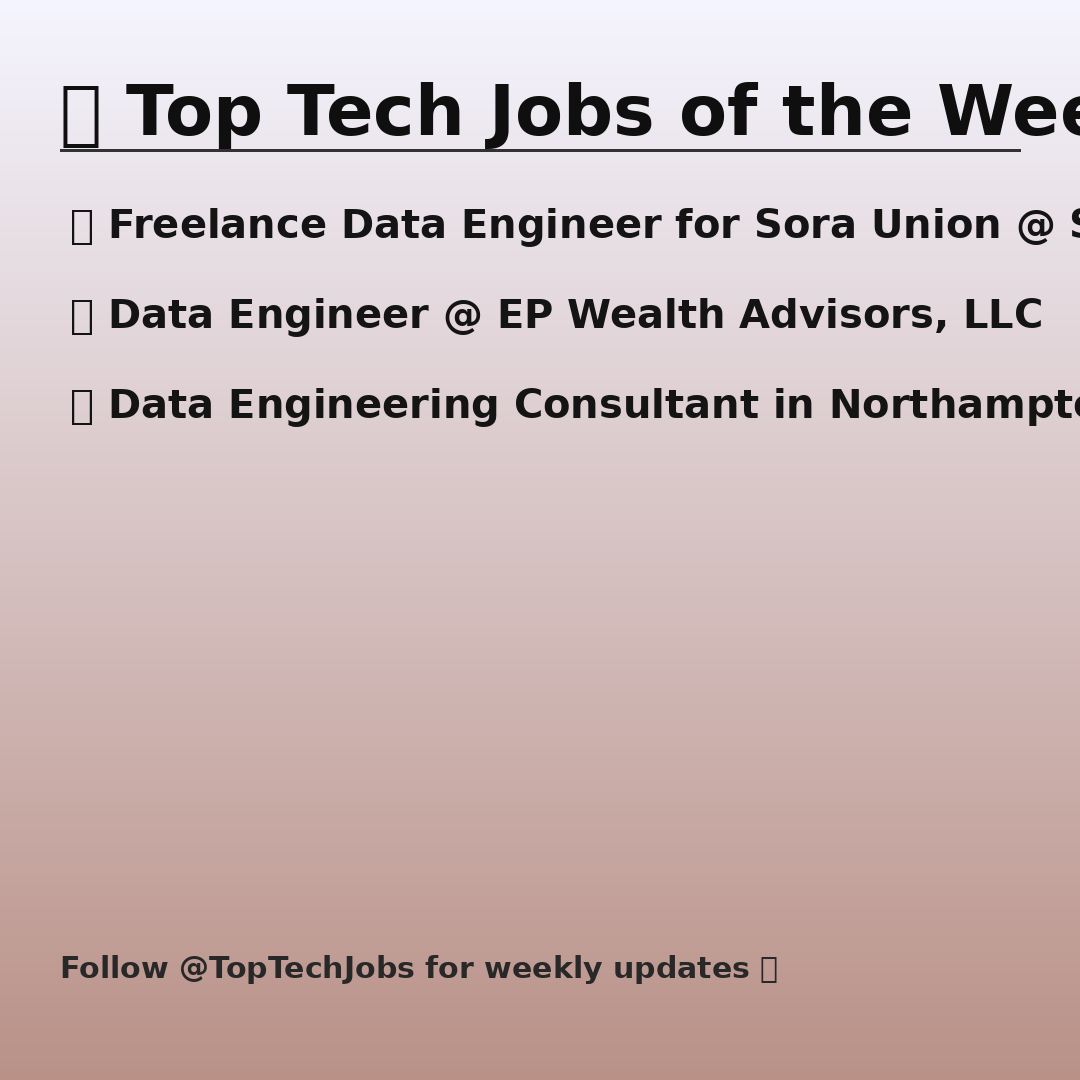
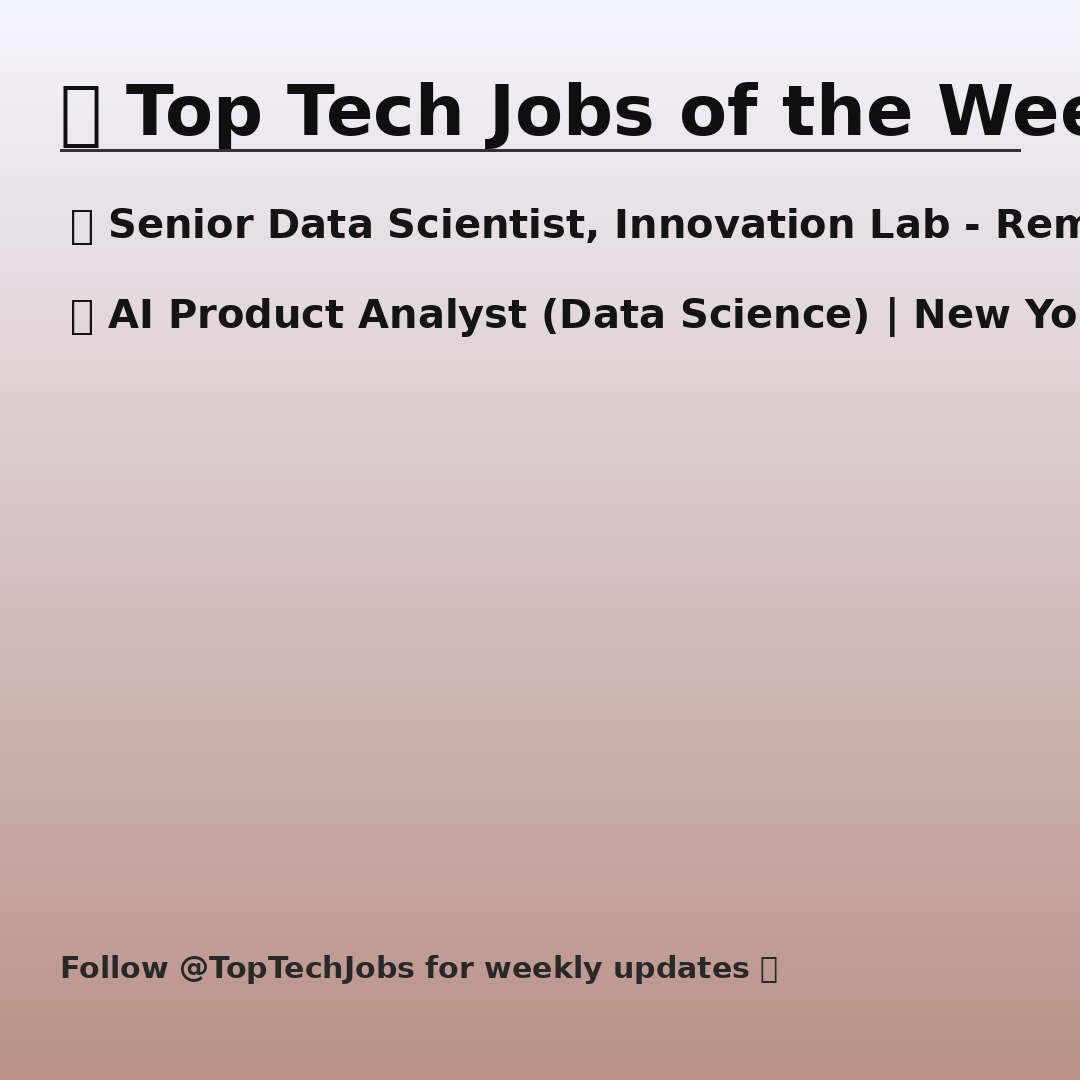
timer added-v2

Changed region(s): [[0.0917, 0.1833, 1.0, 0.2444], [0.0611, 0.3361, 1.0, 0.3972], [0.0917, 0.275, 1.0, 0.3056]]

diff --git a/index.html b/index.html
@@ -164,7 +164,7 @@
                     const counterElement = document.querySelector('.visitor-count');
                     const visitsElement = document.getElementById('visits');
                     
-                    // Method 1: Try CountAPI.xyz with correct namespace
+                    // Method 1: Try CountAPI.xyz
                     try {
                         console.log('Attempting CountAPI.xyz...');
                         const response = await fetch('https://api.countapi.xyz/hit/jobloop-beta-github-io/visits', {
@@ -187,7 +187,7 @@
                         console.log('CountAPI.xyz failed:', error);
                     }
                     
-                    // Method 2: Try alternative API - CounterAPI.dev
+                    // Method 2: Try alternative API
                     try {
                         console.log('Attempting alternative counter...');
                         const response = await fetch('https://api.counterapi.dev/v1/jobloop-beta-github-io/visits/up', {
@@ -209,7 +209,7 @@
                         console.log('Alternative API failed:', error);
                     }
                     
-                    // Method 3: Fallback to localStorage simulation (browser-only, not global)
+                    // Method 3: Fallback to localStorage simulation
                     try {
                         console.log('Using localStorage fallback...');
                         let count = parseInt(localStorage.getItem('visit_count') || '0');
@@ -251,169 +251,184 @@
                 <p>Advertisement Space</p>
             </div>
             <div class="job-grid">
-            <article class="job-card" id="job-0"
-                data-title="Freelance Data Engineer for Sora Union"
-                data-company="Sora Union"
-                data-location="None"
-                data-url="https://builtinlondon.uk/job/freelance-data-engineer-sora-union/7493402?utm_campaign=google_jobs_apply&utm_source=google_jobs_apply&utm_medium=organic">
-                <a href="https://builtinlondon.uk/job/freelance-data-engineer-sora-union/7493402?utm_campaign=google_jobs_apply&utm_source=google_jobs_apply&utm_medium=organic" class="job-title" target="_blank">Freelance Data Engineer for Sora Union</a>
-                <div class="job-company">Sora Union</div>
+            <article class="job-card" id="job-{i}"
+                data-title="{j['title']}"
+                data-company="{j['company']}"
+                data-location="{j['loc']}"
+                data-url="{j['url']}">
+                <a href="{j['url']}" class="job-title" target="_blank">{j['title']}</a>
+                <div class="job-company">{j['company']}</div>
                 <div class="job-location">
                     <svg width="16" height="16" viewBox="0 0 24 24" fill="none" stroke="currentColor" stroke-width="2">
                         <path d="M21 10c0 7-9 13-9 13s-9-6-9-13a9 9 0 0 1 18 0z"></path>
                         <circle cx="12" cy="10" r="3"></circle>
                     </svg>
-                    Location Flexible
+                    {j['loc'] if j['loc'] else 'Location Flexible'}
                 </div>
             </article>
-            <article class="job-card" id="job-1"
-                data-title="Data Engineer"
-                data-company="EP Wealth Advisors, LLC"
-                data-location="London"
-                data-url="https://jobiak.epwealth.com/careers/data-engineer-london-oh-690345e0c07db10a50c9dc56?utm_campaign=google_jobs_apply&utm_source=google_jobs_apply&utm_medium=organic">
-                <a href="https://jobiak.epwealth.com/careers/data-engineer-london-oh-690345e0c07db10a50c9dc56?utm_campaign=google_jobs_apply&utm_source=google_jobs_apply&utm_medium=organic" class="job-title" target="_blank">Data Engineer</a>
-                <div class="job-company">EP Wealth Advisors, LLC</div>
+            <article class="job-card" id="job-{i}"
+                data-title="{j['title']}"
+                data-company="{j['company']}"
+                data-location="{j['loc']}"
+                data-url="{j['url']}">
+                <a href="{j['url']}" class="job-title" target="_blank">{j['title']}</a>
+                <div class="job-company">{j['company']}</div>
                 <div class="job-location">
                     <svg width="16" height="16" viewBox="0 0 24 24" fill="none" stroke="currentColor" stroke-width="2">
                         <path d="M21 10c0 7-9 13-9 13s-9-6-9-13a9 9 0 0 1 18 0z"></path>
                         <circle cx="12" cy="10" r="3"></circle>
                     </svg>
-                    London
+                    {j['loc'] if j['loc'] else 'Location Flexible'}
                 </div>
             </article>
-            <article class="job-card" id="job-2"
-                data-title="Data Engineering Consultant in Northampton"
-                data-company="Energy Jobline ZR"
-                data-location="Northampton"
-                data-url="https://www.ihireengineering.com/jobs/view/498473498?utm_campaign=google_jobs_apply&utm_source=google_jobs_apply&utm_medium=organic">
-                <a href="https://www.ihireengineering.com/jobs/view/498473498?utm_campaign=google_jobs_apply&utm_source=google_jobs_apply&utm_medium=organic" class="job-title" target="_blank">Data Engineering Consultant in Northampton</a>
-                <div class="job-company">Energy Jobline ZR</div>
+            <article class="job-card" id="job-{i}"
+                data-title="{j['title']}"
+                data-company="{j['company']}"
+                data-location="{j['loc']}"
+                data-url="{j['url']}">
+                <a href="{j['url']}" class="job-title" target="_blank">{j['title']}</a>
+                <div class="job-company">{j['company']}</div>
                 <div class="job-location">
                     <svg width="16" height="16" viewBox="0 0 24 24" fill="none" stroke="currentColor" stroke-width="2">
                         <path d="M21 10c0 7-9 13-9 13s-9-6-9-13a9 9 0 0 1 18 0z"></path>
                         <circle cx="12" cy="10" r="3"></circle>
                     </svg>
-                    Northampton
+                    {j['loc'] if j['loc'] else 'Location Flexible'}
                 </div>
             </article>
-            <article class="job-card" id="job-3"
-                data-title="15h Left! Senior Data Engineer( DWH)"
-                data-company="Mastercard"
-                data-location="Pune"
-                data-url="https://in.talent.com/view?id=9238cf80d12a&utm_campaign=google_jobs_apply&utm_source=google_jobs_apply&utm_medium=organic">
-                <a href="https://in.talent.com/view?id=9238cf80d12a&utm_campaign=google_jobs_apply&utm_source=google_jobs_apply&utm_medium=organic" class="job-title" target="_blank">15h Left! Senior Data Engineer( DWH)</a>
-                <div class="job-company">Mastercard</div>
+            <article class="job-card" id="job-{i}"
+                data-title="{j['title']}"
+                data-company="{j['company']}"
+                data-location="{j['loc']}"
+                data-url="{j['url']}">
+                <a href="{j['url']}" class="job-title" target="_blank">{j['title']}</a>
+                <div class="job-company">{j['company']}</div>
                 <div class="job-location">
                     <svg width="16" height="16" viewBox="0 0 24 24" fill="none" stroke="currentColor" stroke-width="2">
                         <path d="M21 10c0 7-9 13-9 13s-9-6-9-13a9 9 0 0 1 18 0z"></path>
                         <circle cx="12" cy="10" r="3"></circle>
                     </svg>
-                    Pune
+                    {j['loc'] if j['loc'] else 'Location Flexible'}
                 </div>
             </article>
-            <article class="job-card" id="job-4"
-                data-title="Azure Data Engineer(Databricks, Datafactory) Immediate joiners"
-                data-company="Tata Consultancy Services"
-                data-location="Pune"
-                data-url="https://in.linkedin.com/jobs/view/azure-data-engineer-databricks-datafactory-immediate-joiners-at-tata-consultancy-services-4319969713?utm_campaign=google_jobs_apply&utm_source=google_jobs_apply&utm_medium=organic">
-                <a href="https://in.linkedin.com/jobs/view/azure-data-engineer-databricks-datafactory-immediate-joiners-at-tata-consultancy-services-4319969713?utm_campaign=google_jobs_apply&utm_source=google_jobs_apply&utm_medium=organic" class="job-title" target="_blank">Azure Data Engineer(Databricks, Datafactory) Immediate joiners</a>
-                <div class="job-company">Tata Consultancy Services</div>
+            <article class="job-card" id="job-{i}"
+                data-title="{j['title']}"
+                data-company="{j['company']}"
+                data-location="{j['loc']}"
+                data-url="{j['url']}">
+                <a href="{j['url']}" class="job-title" target="_blank">{j['title']}</a>
+                <div class="job-company">{j['company']}</div>
                 <div class="job-location">
                     <svg width="16" height="16" viewBox="0 0 24 24" fill="none" stroke="currentColor" stroke-width="2">
                         <path d="M21 10c0 7-9 13-9 13s-9-6-9-13a9 9 0 0 1 18 0z"></path>
                         <circle cx="12" cy="10" r="3"></circle>
                     </svg>
-                    Pune
+                    {j['loc'] if j['loc'] else 'Location Flexible'}
                 </div>
             </article>
-            <article class="job-card" id="job-5"
-                data-title="Senior Data Engineer - (On Premises - Hadoop, Spark, Python, SQL)"
-                data-company="Mastercard"
-                data-location="Pune"
-                data-url="https://careers.mastercard.com/us/en/job/R-263702/Senior-Data-Engineer-On-Premises-Hadoop-Spark-Python-SQL?utm_campaign=google_jobs_apply&utm_source=google_jobs_apply&utm_medium=organic">
-                <a href="https://careers.mastercard.com/us/en/job/R-263702/Senior-Data-Engineer-On-Premises-Hadoop-Spark-Python-SQL?utm_campaign=google_jobs_apply&utm_source=google_jobs_apply&utm_medium=organic" class="job-title" target="_blank">Senior Data Engineer - (On Premises - Hadoop, Spark, Python, SQL)</a>
-                <div class="job-company">Mastercard</div>
+            <article class="job-card" id="job-{i}"
+                data-title="{j['title']}"
+                data-company="{j['company']}"
+                data-location="{j['loc']}"
+                data-url="{j['url']}">
+                <a href="{j['url']}" class="job-title" target="_blank">{j['title']}</a>
+                <div class="job-company">{j['company']}</div>
                 <div class="job-location">
                     <svg width="16" height="16" viewBox="0 0 24 24" fill="none" stroke="currentColor" stroke-width="2">
                         <path d="M21 10c0 7-9 13-9 13s-9-6-9-13a9 9 0 0 1 18 0z"></path>
                         <circle cx="12" cy="10" r="3"></circle>
                     </svg>
-                    Pune
+                    {j['loc'] if j['loc'] else 'Location Flexible'}
                 </div>
             </article>
-            <article class="job-card" id="job-6"
-                data-title="Data Engineer- Databricks"
-                data-company="InfoCepts"
-                data-location="Pune"
-                data-url="https://in.linkedin.com/jobs/view/data-engineer-databricks-at-infocepts-4332846441?utm_campaign=google_jobs_apply&utm_source=google_jobs_apply&utm_medium=organic">
-                <a href="https://in.linkedin.com/jobs/view/data-engineer-databricks-at-infocepts-4332846441?utm_campaign=google_jobs_apply&utm_source=google_jobs_apply&utm_medium=organic" class="job-title" target="_blank">Data Engineer- Databricks</a>
-                <div class="job-company">InfoCepts</div>
+            <article class="job-card" id="job-{i}"
+                data-title="{j['title']}"
+                data-company="{j['company']}"
+                data-location="{j['loc']}"
+                data-url="{j['url']}">
+                <a href="{j['url']}" class="job-title" target="_blank">{j['title']}</a>
+                <div class="job-company">{j['company']}</div>
                 <div class="job-location">
                     <svg width="16" height="16" viewBox="0 0 24 24" fill="none" stroke="currentColor" stroke-width="2">
                         <path d="M21 10c0 7-9 13-9 13s-9-6-9-13a9 9 0 0 1 18 0z"></path>
                         <circle cx="12" cy="10" r="3"></circle>
                     </svg>
-                    Pune
+                    {j['loc'] if j['loc'] else 'Location Flexible'}
                 </div>
             </article>
-            <article class="job-card" id="job-7"
-                data-title="Senior Azure data engineer- immediate joiner [31 / 10 / 2025]"
-                data-company="Tata Consultancy Services"
-                data-location="Pune"
-                data-url="https://in.talent.com/view?id=483210314851&utm_campaign=google_jobs_apply&utm_source=google_jobs_apply&utm_medium=organic">
-                <a href="https://in.talent.com/view?id=483210314851&utm_campaign=google_jobs_apply&utm_source=google_jobs_apply&utm_medium=organic" class="job-title" target="_blank">Senior Azure data engineer- immediate joiner [31 / 10 / 2025]</a>
-                <div class="job-company">Tata Consultancy Services</div>
+            <article class="job-card" id="job-{i}"
+                data-title="{j['title']}"
+                data-company="{j['company']}"
+                data-location="{j['loc']}"
+                data-url="{j['url']}">
+                <a href="{j['url']}" class="job-title" target="_blank">{j['title']}</a>
+                <div class="job-company">{j['company']}</div>
                 <div class="job-location">
                     <svg width="16" height="16" viewBox="0 0 24 24" fill="none" stroke="currentColor" stroke-width="2">
                         <path d="M21 10c0 7-9 13-9 13s-9-6-9-13a9 9 0 0 1 18 0z"></path>
                         <circle cx="12" cy="10" r="3"></circle>
                     </svg>
-                    Pune
+                    {j['loc'] if j['loc'] else 'Location Flexible'}
                 </div>
             </article>
-            <article class="job-card" id="job-8"
-                data-title="Senior Data Engineer- Databricks"
-                data-company="InfoCepts"
-                data-location="Pune"
-                data-url="https://in.linkedin.com/jobs/view/senior-data-engineer-databricks-at-infocepts-4332806967?utm_campaign=google_jobs_apply&utm_source=google_jobs_apply&utm_medium=organic">
-                <a href="https://in.linkedin.com/jobs/view/senior-data-engineer-databricks-at-infocepts-4332806967?utm_campaign=google_jobs_apply&utm_source=google_jobs_apply&utm_medium=organic" class="job-title" target="_blank">Senior Data Engineer- Databricks</a>
-                <div class="job-company">InfoCepts</div>
+            <article class="job-card" id="job-{i}"
+                data-title="{j['title']}"
+                data-company="{j['company']}"
+                data-location="{j['loc']}"
+                data-url="{j['url']}">
+                <a href="{j['url']}" class="job-title" target="_blank">{j['title']}</a>
+                <div class="job-company">{j['company']}</div>
                 <div class="job-location">
                     <svg width="16" height="16" viewBox="0 0 24 24" fill="none" stroke="currentColor" stroke-width="2">
                         <path d="M21 10c0 7-9 13-9 13s-9-6-9-13a9 9 0 0 1 18 0z"></path>
                         <circle cx="12" cy="10" r="3"></circle>
                     </svg>
-                    Pune
+                    {j['loc'] if j['loc'] else 'Location Flexible'}
                 </div>
             </article>
-            <article class="job-card" id="job-9"
-                data-title="Senior Data Scientist, Innovation Lab - Remote at Experian West Virginia"
-                data-company="Experian"
-                data-location="None"
-                data-url="https://lunaspraytech.com/jobs/job/senior-data-scientist-innovation-lab-remote-at-experian-west-virginia-VGlHTStyMFpvZDlxUTVJeUNhT3NUMzRueUE9PQ==?utm_campaign=google_jobs_apply&utm_source=google_jobs_apply&utm_medium=organic">
-                <a href="https://lunaspraytech.com/jobs/job/senior-data-scientist-innovation-lab-remote-at-experian-west-virginia-VGlHTStyMFpvZDlxUTVJeUNhT3NUMzRueUE9PQ==?utm_campaign=google_jobs_apply&utm_source=google_jobs_apply&utm_medium=organic" class="job-title" target="_blank">Senior Data Scientist, Innovation Lab - Remote at Experian West Virginia</a>
-                <div class="job-company">Experian</div>
+            <article class="job-card" id="job-{i}"
+                data-title="{j['title']}"
+                data-company="{j['company']}"
+                data-location="{j['loc']}"
+                data-url="{j['url']}">
+                <a href="{j['url']}" class="job-title" target="_blank">{j['title']}</a>
+                <div class="job-company">{j['company']}</div>
                 <div class="job-location">
                     <svg width="16" height="16" viewBox="0 0 24 24" fill="none" stroke="currentColor" stroke-width="2">
                         <path d="M21 10c0 7-9 13-9 13s-9-6-9-13a9 9 0 0 1 18 0z"></path>
                         <circle cx="12" cy="10" r="3"></circle>
                     </svg>
-                    Location Flexible
+                    {j['loc'] if j['loc'] else 'Location Flexible'}
                 </div>
             </article>
-            <article class="job-card" id="job-10"
-                data-title="AI Product Analyst (Data Science) | New York, NY, USA | Remote"
-                data-company="S&P Global"
-                data-location="Morris Twp"
-                data-url="https://ai-search.io/job-board/sp-global-ai-product-analyst-data-science-new-york-ny-usa-remote-20250307?utm_campaign=google_jobs_apply&utm_source=google_jobs_apply&utm_medium=organic">
-                <a href="https://ai-search.io/job-board/sp-global-ai-product-analyst-data-science-new-york-ny-usa-remote-20250307?utm_campaign=google_jobs_apply&utm_source=google_jobs_apply&utm_medium=organic" class="job-title" target="_blank">AI Product Analyst (Data Science) | New York, NY, USA | Remote</a>
-                <div class="job-company">S&P Global</div>
+            <article class="job-card" id="job-{i}"
+                data-title="{j['title']}"
+                data-company="{j['company']}"
+                data-location="{j['loc']}"
+                data-url="{j['url']}">
+                <a href="{j['url']}" class="job-title" target="_blank">{j['title']}</a>
+                <div class="job-company">{j['company']}</div>
                 <div class="job-location">
                     <svg width="16" height="16" viewBox="0 0 24 24" fill="none" stroke="currentColor" stroke-width="2">
                         <path d="M21 10c0 7-9 13-9 13s-9-6-9-13a9 9 0 0 1 18 0z"></path>
                         <circle cx="12" cy="10" r="3"></circle>
                     </svg>
-                    Morris Twp
+                    {j['loc'] if j['loc'] else 'Location Flexible'}
+                </div>
+            </article>
+            <article class="job-card" id="job-{i}"
+                data-title="{j['title']}"
+                data-company="{j['company']}"
+                data-location="{j['loc']}"
+                data-url="{j['url']}">
+                <a href="{j['url']}" class="job-title" target="_blank">{j['title']}</a>
+                <div class="job-company">{j['company']}</div>
+                <div class="job-location">
+                    <svg width="16" height="16" viewBox="0 0 24 24" fill="none" stroke="currentColor" stroke-width="2">
+                        <path d="M21 10c0 7-9 13-9 13s-9-6-9-13a9 9 0 0 1 18 0z"></path>
+                        <circle cx="12" cy="10" r="3"></circle>
+                    </svg>
+                    {j['loc'] if j['loc'] else 'Location Flexible'}
                 </div>
             </article>
             </div>
@@ -427,7 +442,7 @@
                 👁 <span id="visits">...</span> visitors
             </div>
             <p style="margin-top: 12px; font-size: 12px; opacity: 0.7;">
-                Tracking total page views (including repeat visits)
+                Tracking total page views.
             </p>
         </footer>
         </body></html>

diff --git a/toptechjobs.py b/toptechjobs.py
@@ -350,10 +350,10 @@ def make_html(jobs):
         <footer>
             <p>Updated {datetime.datetime.now().strftime('%d %b %Y')}</p>
             <div class="visitor-count" data-loading="true">
-                👁 <span id="visits">...</span> visitors
+                <span id="visits">...</span> visitors
             </div>
             <p style="margin-top: 12px; font-size: 12px; opacity: 0.7;">
-                Tracking total page views (including repeat visits)
+                Tracking total page views.
             </p>
         </footer>
         </body></html>"""
